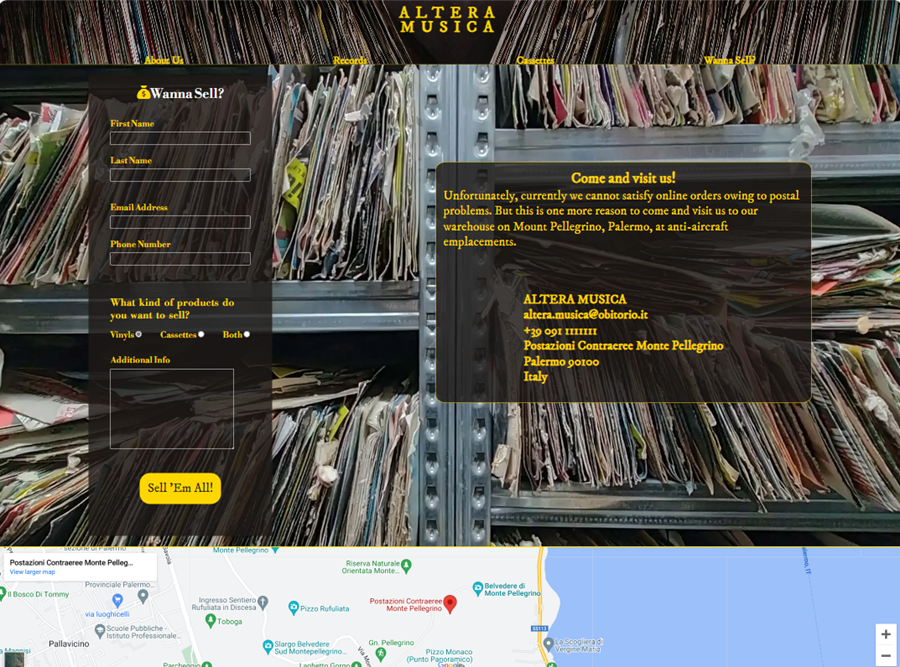
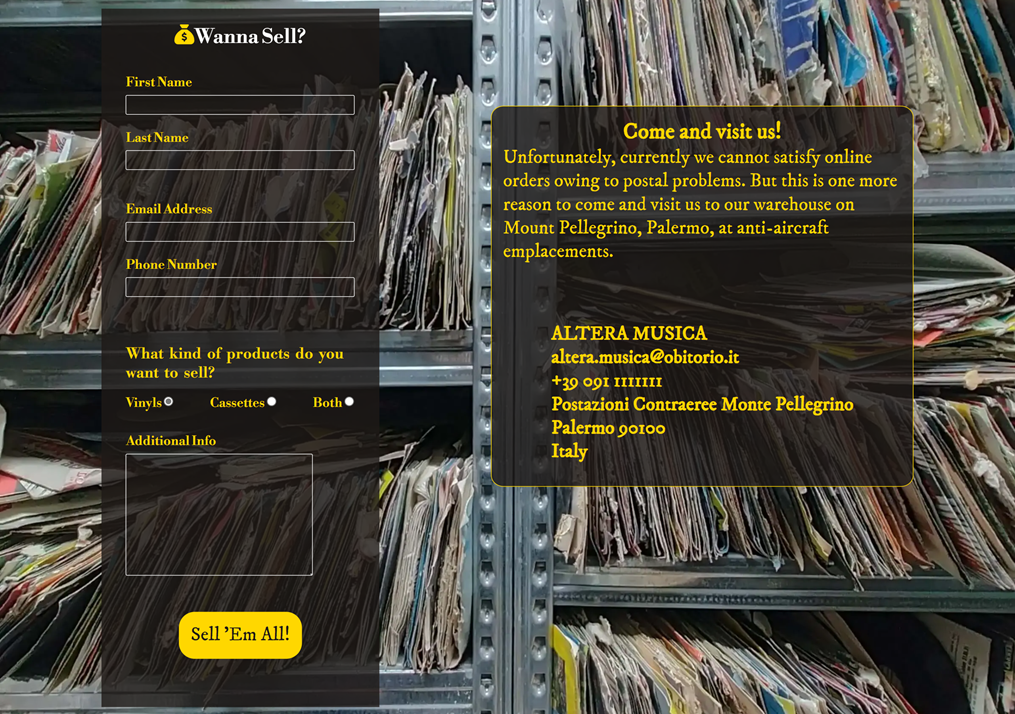
Add wanna sell section screenshots to README.md

diff --git a/README.md b/README.md
@@ -371,11 +371,14 @@ This structure is identical in the [Records](#records) page. These informations 
 - Both the form and the informative frame have a certain level of opacity in order to show the background image of shelves full of records. The "Wanna Sell?" page is the only page on the website that differs from the others on this level. This is a source of discrepancy but gives the idea of abundance and, according to the site creator, may entice the user to fill in the form and contact the company;
 - the page is responsive and displays all its features differently depending on the screen dimensions.
 
-##### Smaller Screens Version
-![Wanna Sell Page](docs/features/wanna-sell-smaller.webp)
+##### Smaller Screens Version Top
+![Wanna Sell Page](docs/features/wanna-sell-smaller-top.png)
 
-##### Desktop Version
-![Wanna Sell Page](docs/features/wanna-sell-desktop.webp)
+##### Smaller Screens Version Bottom
+![Wanna Sell Page](docs/features/wanna-sell-smaller-down.png)
+
+##### Desktop Version Extract
+![Wanna Sell Page](docs/features/wanna-sell-desktop.png)
 <br>
 <br>
 
